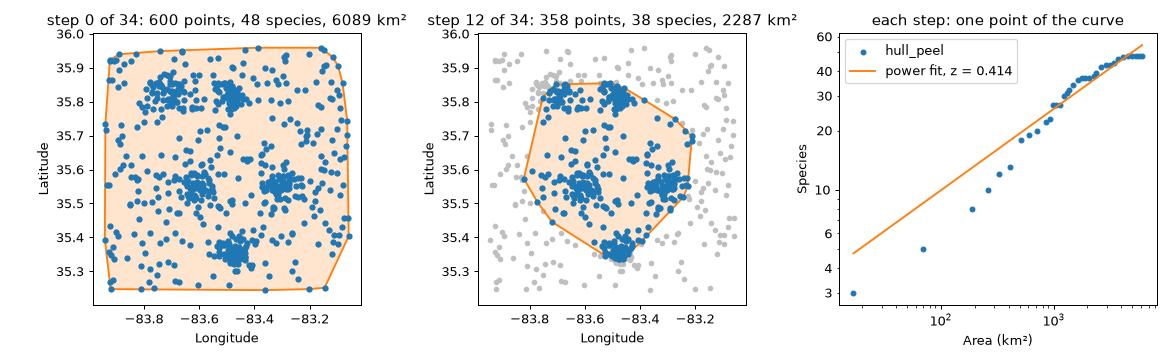
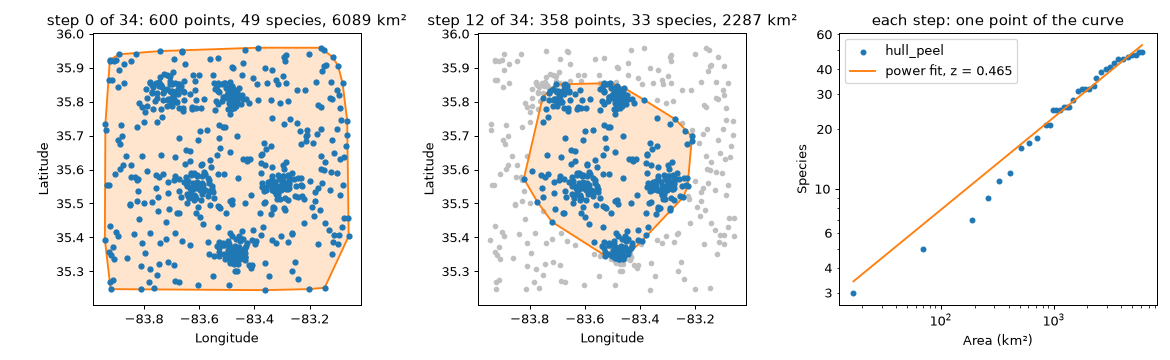
README: links that work on PyPI, and the names the table left out
- The examples link is the repository's address (a relative link breaks
  where PyPI renders the README), and says each script stands alone.
- matplotlib comes with sars, so the note to install it goes.
- from_order's name for strategies.run is 'order'; partition, admin_units
  and read_units are named.
- The figure is redrawn on the corrected simulated landscape.

diff --git a/README.md b/README.md
@@ -31,8 +31,7 @@ Documentation: <https://jmcmeen.github.io/samplesar/>
 pip install samplesar
 ```
 
-Plots need matplotlib (`pip install matplotlib`). Optional extras add data
-sources:
+Optional extras add data sources:
 
 | Extra | For |
 | --- | --- |
@@ -47,8 +46,9 @@ No data needed: `sources.simulated` makes up a landscape of observations
 (a ridge, species with home ranges, visits piled around a few places, with
 elevations and dates) that everything below runs on.
 
-- [Example scripts](examples/): six short scripts, each from observations
-  to a table and a figure. `python examples/01_first_nest.py`
+- [Example scripts](https://github.com/jmcmeen/samplesar/tree/main/examples):
+  six short scripts, each from observations to a table and a figure. Each
+  stands alone: download one and run it.
 - Notebooks in the documentation:
   [a first nest](https://jmcmeen.github.io/samplesar/examples/first_nest/),
   [comparing strategies](https://jmcmeen.github.io/samplesar/examples/strategies/) and
@@ -79,7 +79,8 @@ Then, before nesting:
 - `Sample.within(region)` keeps the observations inside a region.
   `samplesar.regions` gives regions: countries, states and counties from
   geoBoundaries (`admin`), US EPA and RESOLVE ecoregions (`ecoregion`), or
-  any boundary file or URL (`read`).
+  any boundary file or URL (`read`). `admin_units` and `read_units` give
+  many named regions at once.
 - `Sample.merge_within(meters)` merges records made at one spot (a
   trailhead, a feeder) that differ only by GPS jitter. Left apart, they make
   the last steps of a hull nest measure hulls centimeters across.
@@ -91,16 +92,17 @@ Then, before nesting:
 ## Strategies
 
 Each strategy is one function in `samplesar.strategies`, also callable by
-name through `strategies.run(sample, "hull_peel")`.
+name through `strategies.run(sample, "hull_peel")`;
+`strategies.available()` lists the names.
 
 | How it shrinks the sample | Strategies |
 | --- | --- |
-| **At random** (baselines) | `random`: any point. `hull_random`: a hull vertex. `hull_weighted`: a hull vertex, favoring isolated ones. `from_order`: an order you give |
+| **At random** (baselines) | `random`: any point. `hull_random`: a hull vertex. `hull_weighted`: a hull vertex, favoring isolated ones. `from_order` (by name, `"order"`): an order you give |
 | **A layer at a time** | `hull_peel`: the whole convex hull. `concave_peel`: a concave hull that follows the outline. `grid_peel`: the hull of occupied grid cells |
 | **The hull vertex that...** | `hull_area`: changes the area least or most (`hull_masked_area`: within a mask). `hull_species`: loses the fewest or most species. `hull_rarity`: holds the most common, or the rarest, species. `hull_distance`: is farthest from or nearest to the center. `circle`: shrinks the smallest enclosing circle most |
 | **By position**, ranked once | `radial`: farthest from a center first (discs or ellipses). `sweep`: a front moving across. `band`: closing in on a line from both sides. `sector`: one compass sector after another. `density_peel`: sparsest first. `grow`: outward from a seed, reversed |
 | **By elevation or date** | `elevation`: from the summits down, the valleys up, or toward a band. `temporal`: back through time |
-| **As several patches** | `split`: divide the sample into parts (clusters, a grid, your polygons) and run any strategy inside each; areas are the parts' hulls together |
+| **As several patches** | `split`: divide the sample into parts (clusters, a grid, your polygons) and run any strategy inside each; areas are the parts' hulls together (`partition` gives the parts alone) |
 
 [Sampling strategies](https://jmcmeen.github.io/samplesar/strategies/)
 describes each one.
@@ -169,6 +171,6 @@ with its power fit (`curve`), and the whole nest as an animation
 
 ```sh
 make install   # create .venv with dev tooling
-make check     # lint, format check, type check, tests
+make check     # lint, format check, type check, tests, docs build
 make docs      # build the documentation site
 ```
